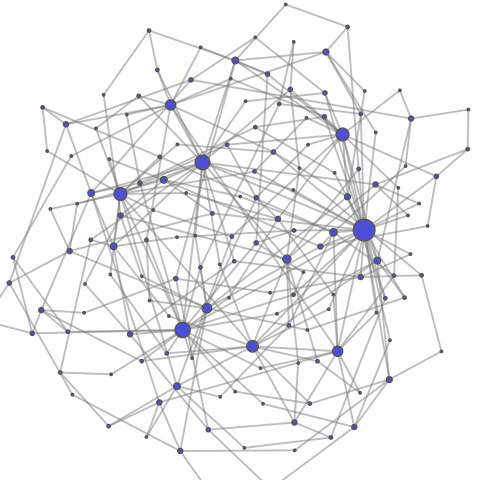
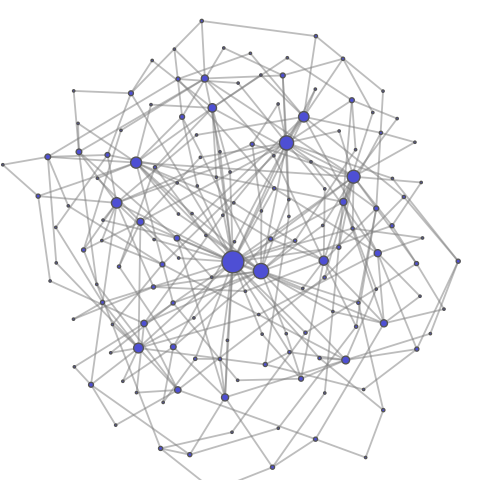
scientists only experiments; found a way to change colors for different nodes

Changed region(s): [[0.0, 0.0, 1.0, 1.0], [0.7188, 0.9062, 0.7812, 0.9688], [0.9375, 0.5312, 0.9688, 0.5938]]

diff --git a/simulation.py b/simulation.py
@@ -1,4 +1,5 @@
 import numpy as np
+import networkx as nx
 import matplotlib.pyplot as plt
 from optparse import OptionParser
 from netwulf import visualize, draw_netwulf
@@ -10,6 +11,7 @@ MAX_STEPS = 25
 EXPERIMENT = "scientists"
 
 def sanity_check():
+    G = nx.Graph()
     s1 = ScientistNode(1)
     s2 = ScientistNode(2)
     s3 = ScientistNode(3)
@@ -38,8 +40,25 @@ def sanity_check():
     s2.define_neighbours([s1, s3])
     s3.define_neighbours([s2, s4])
     s4.define_neighbours([s3, s1])
+    G.add_edge(1, 2)
+    G.add_edge(1, 4)
+    G.add_edge(2, 3)
+    G.add_edge(3, 4)
+
     p1.define_neighbours([s3, j1])
     j1.define_neighbours([s3, s4])
+    G.add_edge(5, 3)
+    G.add_edge(5, 1)
+    G.add_edge(6, 3)
+    G.add_edge(6, 4)
+    
+    # group colors
+    for k, v in list(G.nodes(data=True))[:-2]:
+        v['group'] = "blue"
+    
+    list(G.nodes(data=True))[-2][1]['group'] = "green"
+    list(G.nodes(data=True))[-1][1]['group'] = "red"
+    visualize(G)
 
     for n_ in [s1, s2, s3, s4, p1, j1]: 
         print(n_)
@@ -178,6 +197,7 @@ def main():
     
     # print(options)
     # print(args)
+    # Sanity check working fine
     # sanity_check()
 
     # Default values
@@ -198,20 +218,34 @@ def main():
         if options.ntype == 'ring':
             # Ring Lattice
             nodes, G, config = generate_ring_lattice(N=N)
-            visualize(G, config=default_config)
-            run_simulation(nodes)
+            _network, _ = visualize(
+                G, config=default_config, plot_in_cell_below=False)
+            fig, ax = draw_netwulf(_network)
+            plt.savefig(
+                f"results/{EXPERIMENT}_{options.ntype}_{N}_{p}_{m0}.png")
+            filename = f"{EXPERIMENT}_{options.ntype}_{N}_{p}_{m0}_graph"
+            run_simulation(filename, nodes)
 
         if options.ntype == 'random':
             # Random Network
             nodes, G, config = generate_random_network(N=N, p=p)
-            visualize(G, config=default_config)
-            run_simulation(nodes)
+            _network, _ = visualize(
+                G, config=default_config, plot_in_cell_below=False)
+            fig, ax = draw_netwulf(_network)
+            plt.savefig(
+                f"results/{EXPERIMENT}_{options.ntype}_{N}_{p}_{m0}.png")
+            filename = f"{EXPERIMENT}_{options.ntype}_{N}_{p}_{m0}_graph"
+            run_simulation(filename, nodes)
 
         if options.ntype == 'ws':
             # Watts-Strogatz Network
             nodes, G, config = generate_watts_strogatz_network(N=N, p=p)
-            visualize(G, config=default_config)
-            run_simulation(nodes)
+            _network, _ = visualize(G, config=default_config, plot_in_cell_below=False)
+            fig, ax = draw_netwulf(_network)
+            plt.savefig(
+                f"results/{EXPERIMENT}_{options.ntype}_{N}_{p}_{m0}.png")
+            filename = f"{EXPERIMENT}_{options.ntype}_{N}_{p}_{m0}_graph"
+            run_simulation(filename, nodes)
 
         if options.ntype == 'ba':
             # Barabasi_alber Network

diff --git a/node.py b/node.py
@@ -5,6 +5,7 @@ import numpy.random as rand
 from action import ActionA, ActionB
 
 VERBOSE = False
+EPSILON = 0.05
 
 
 class AgentNode:
@@ -18,7 +19,7 @@ class ScientistNode(AgentNode):
         self.type = "Scientist"
         self.belief = rand.uniform(0, 1)
         self.action_a = ActionA()
-        self.action_b = ActionB(0.05)
+        self.action_b = ActionB(EPSILON)
         self.outcome = None
         self.pmf = None
         self.neighbours = []
@@ -81,7 +82,7 @@ class PolicymakerNode(AgentNode):
         self.type = "Policymaker"
         self.belief = rand.uniform(0, 0.5)
         self.action_a = ActionA()
-        self.action_b = ActionB(0.05)
+        self.action_b = ActionB(EPSILON)
         self.neighbours = []
 
     def __repr__(self) -> str:
@@ -120,7 +121,7 @@ class JournalistNode(AgentNode):
         self.type = "Journalist"
         self.belief = rand.uniform(0, 1)
         self.action_a = ActionA()
-        self.action_b = ActionB(0.05)
+        self.action_b = ActionB(EPSILON)
         self.outcome = None
         self.pmf = None
         self.neighbours = []
